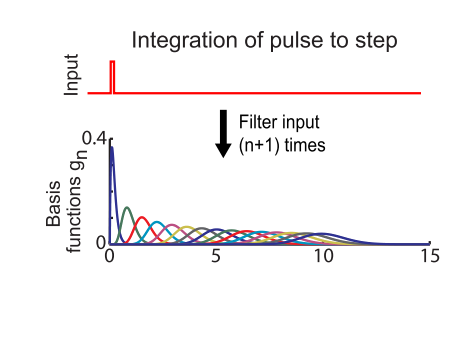
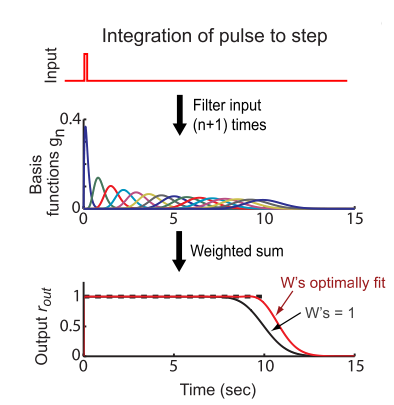
s

Changed region(s): [[0.0609, 0.1222, 0.9746, 0.9167], [0.2437, 0.0611, 0.8832, 0.1528], [0.4569, 0.9472, 0.6701, 0.9778]]

diff --git a/_posts/2016-10-30-is-brain-optimal-for-information-storage.md b/_posts/2016-10-30-is-brain-optimal-for-information-storage.md
@@ -46,7 +46,7 @@ The feedforward network could present (or save) information, because the neuron 
 
 <figure markdown="1">
 ![]({{ site.baseurl }}/assets/posts/is-brain-optimal-for-information-storage/time-constant.PNG)
-<figcaption>When receiving an input, the neurons at different stage have different time delay (and response magnitude).</figcaption>
+<figcaption>When receiving an input, the neurons at different stage have different time delay (and response magnitude). To maintain the same response level, the synaptic weight should increases with stage increase. </figcaption>
 </figure>
 
 # Motivation from models to connection style
